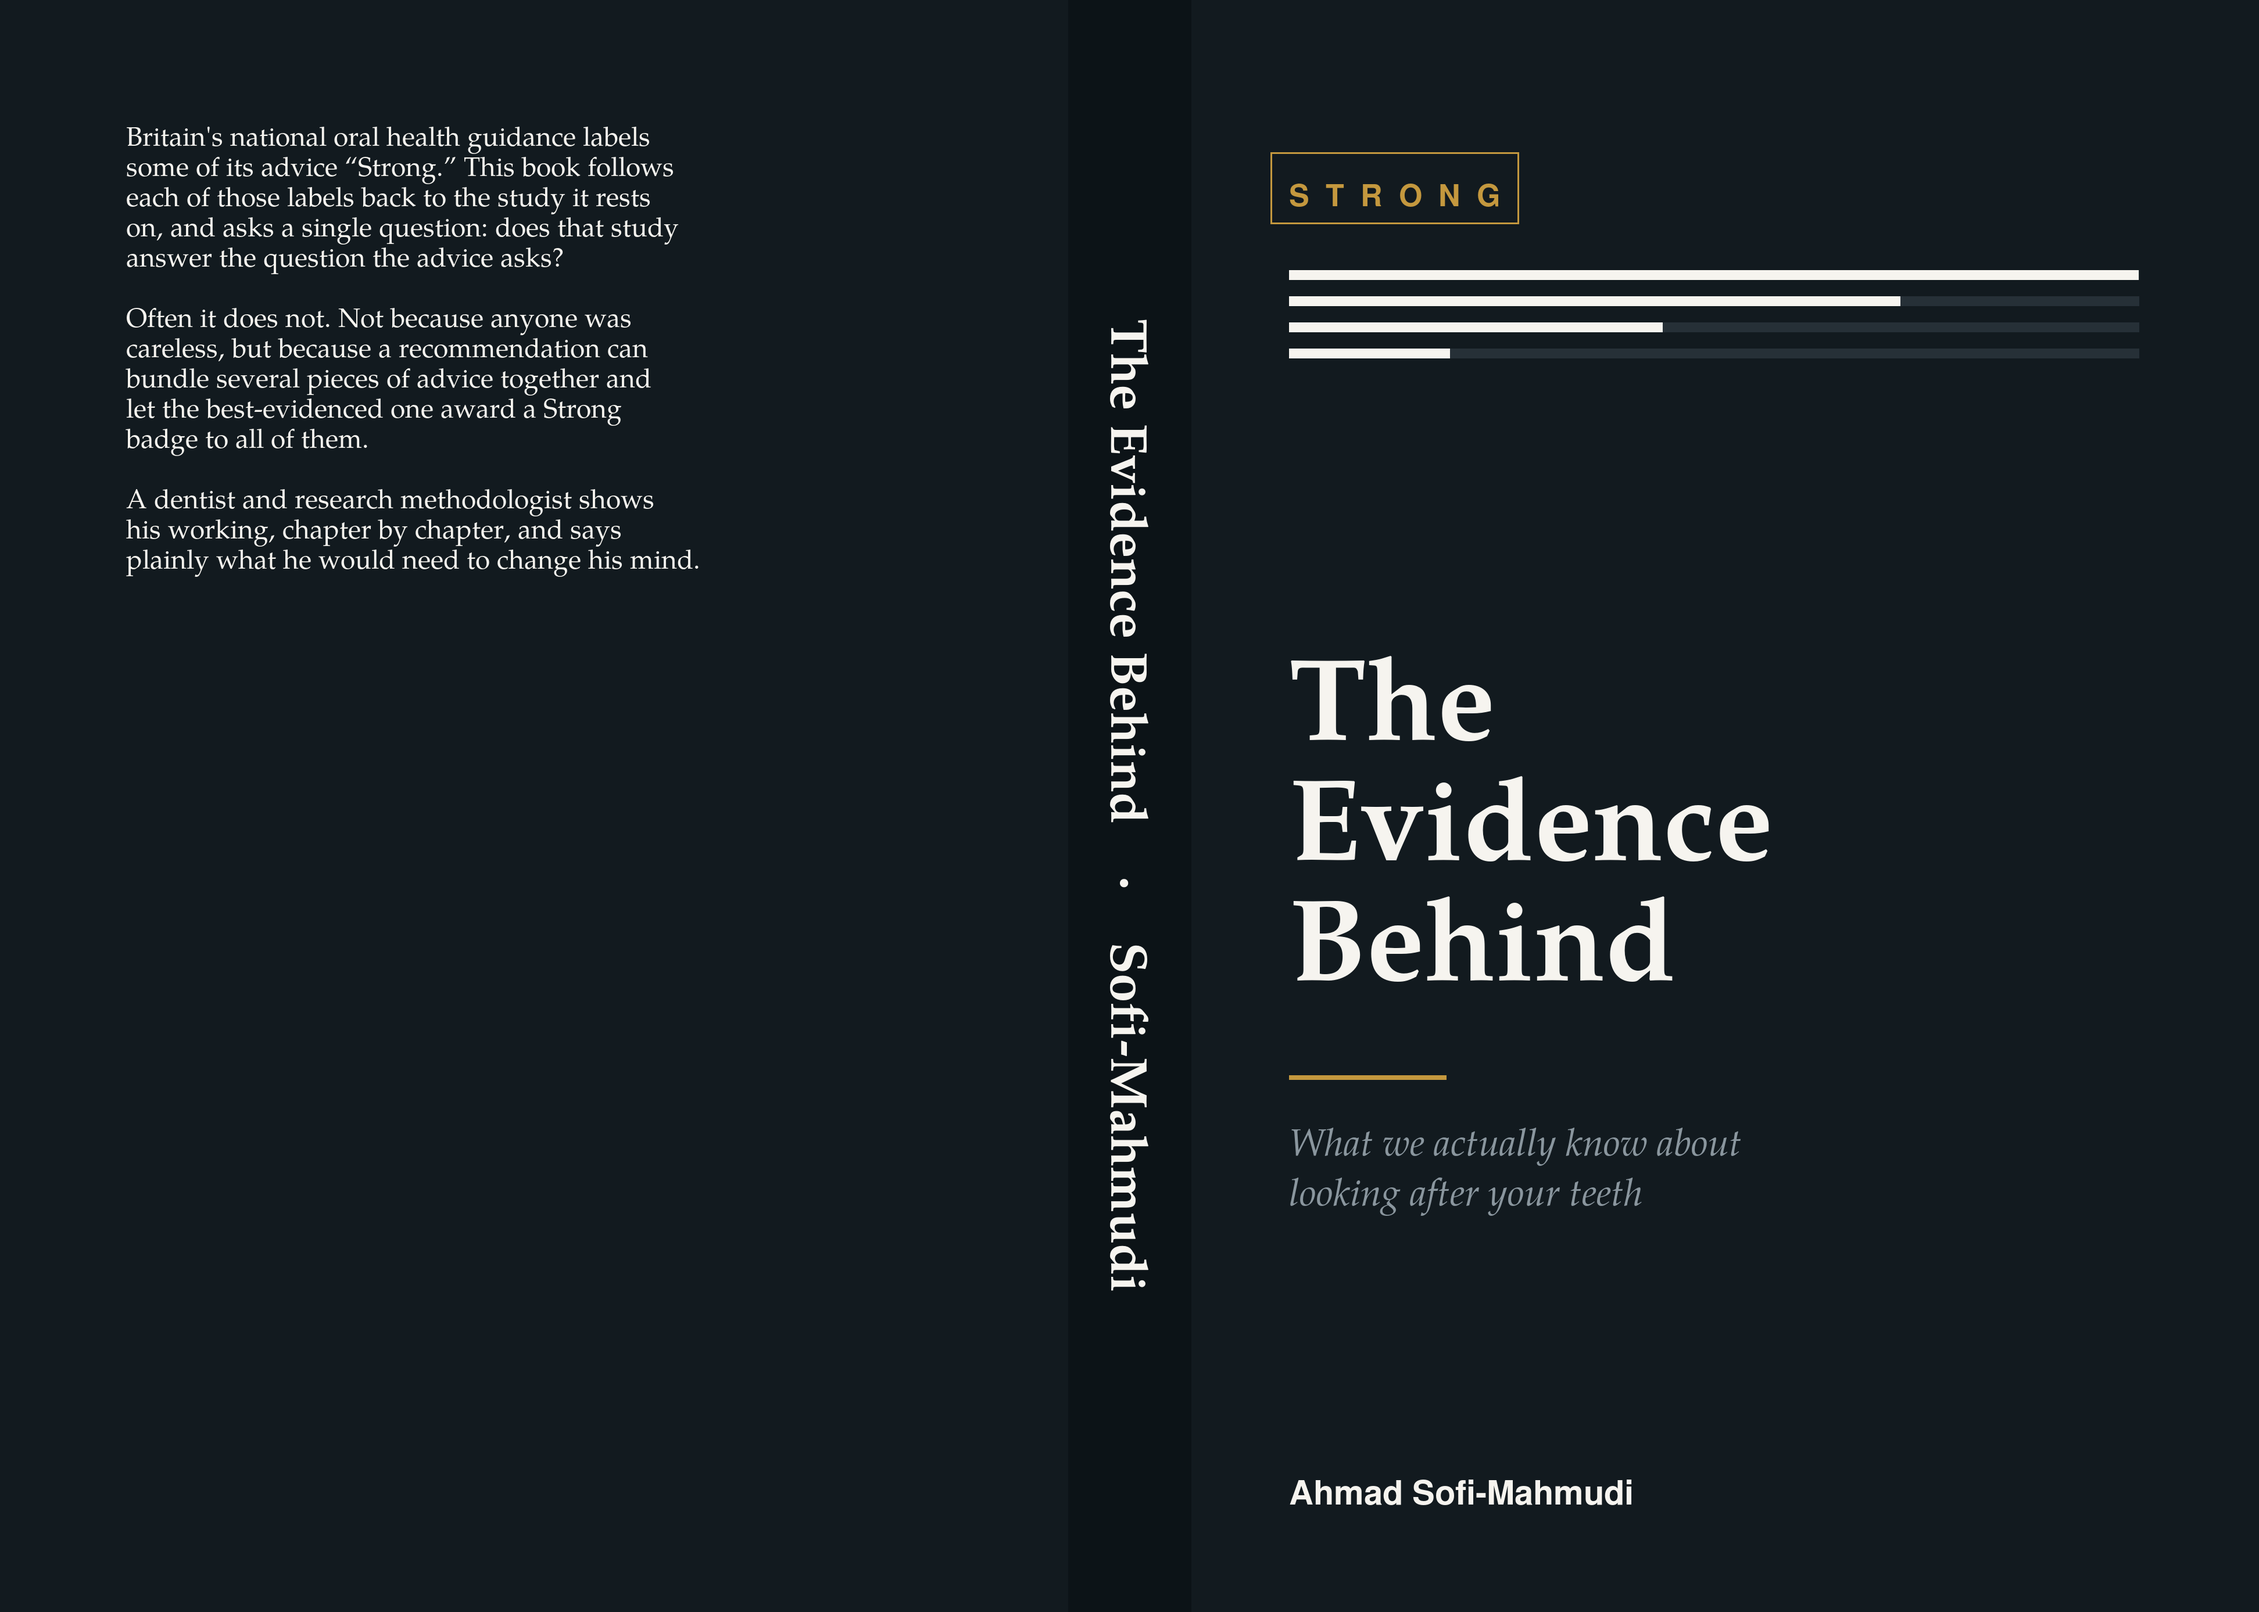
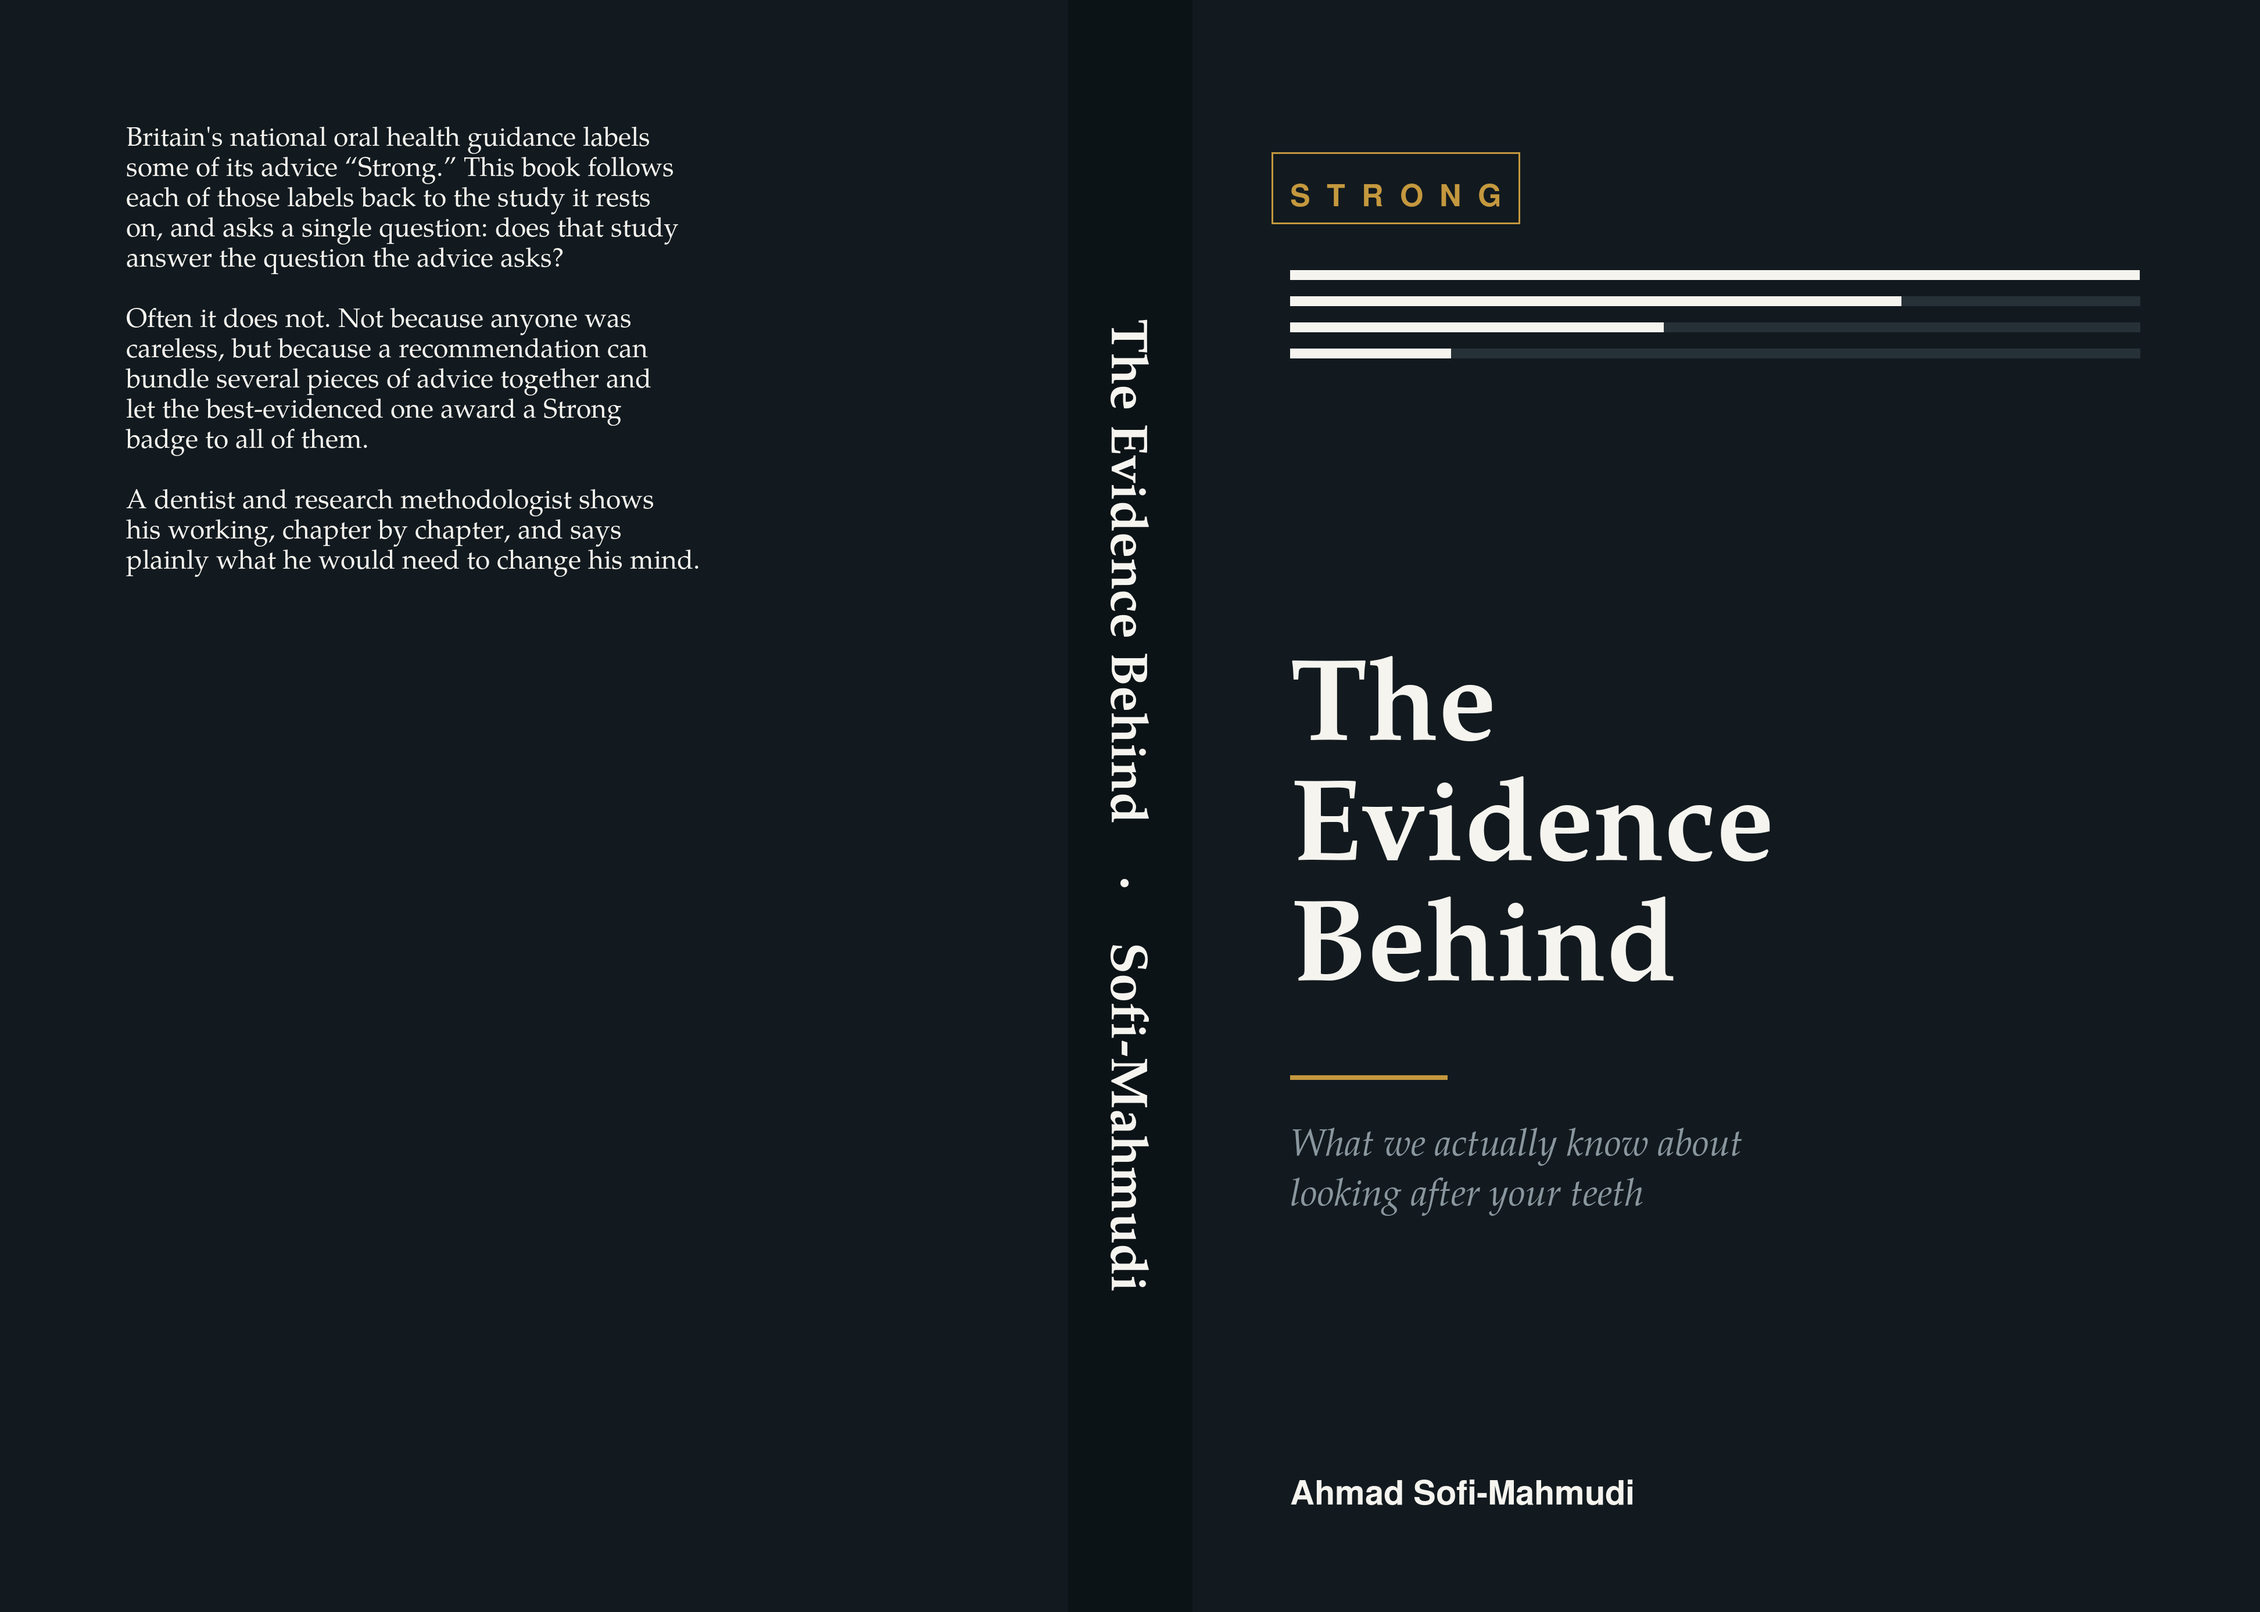
Point the cover generator at the renamed KDP PDF
The paperback wrap computes its spine width from the interior's page
count, and the interior was renamed in the previous commit, so the
lookup silently fell through to 'skipped' and the wrap kept a stale
spine.

Changed region(s): [[0.249, 0.093, 0.2802, 0.124], [0.2179, 0.3099, 0.249, 0.3409], [0.2179, 0.2169, 0.249, 0.2479]]

diff --git a/scripts/make_cover.py b/scripts/make_cover.py
@@ -262,7 +262,7 @@ def main() -> int:
     make_front(1000, 1600, FIGS / "cover-web.png")
     make_favicon(FIGS / "favicon.png")
 
-    pdf = ROOT / "dist" / "The-Evidence-Behind.pdf"
+    pdf = ROOT / "dist" / "The-Evidence-Behind-KDP-6x9.pdf"
     pages = pdf_page_count(pdf)
     if pages:
         make_paperback_wrap(pages, FIGS / "cover-paperback.png")
